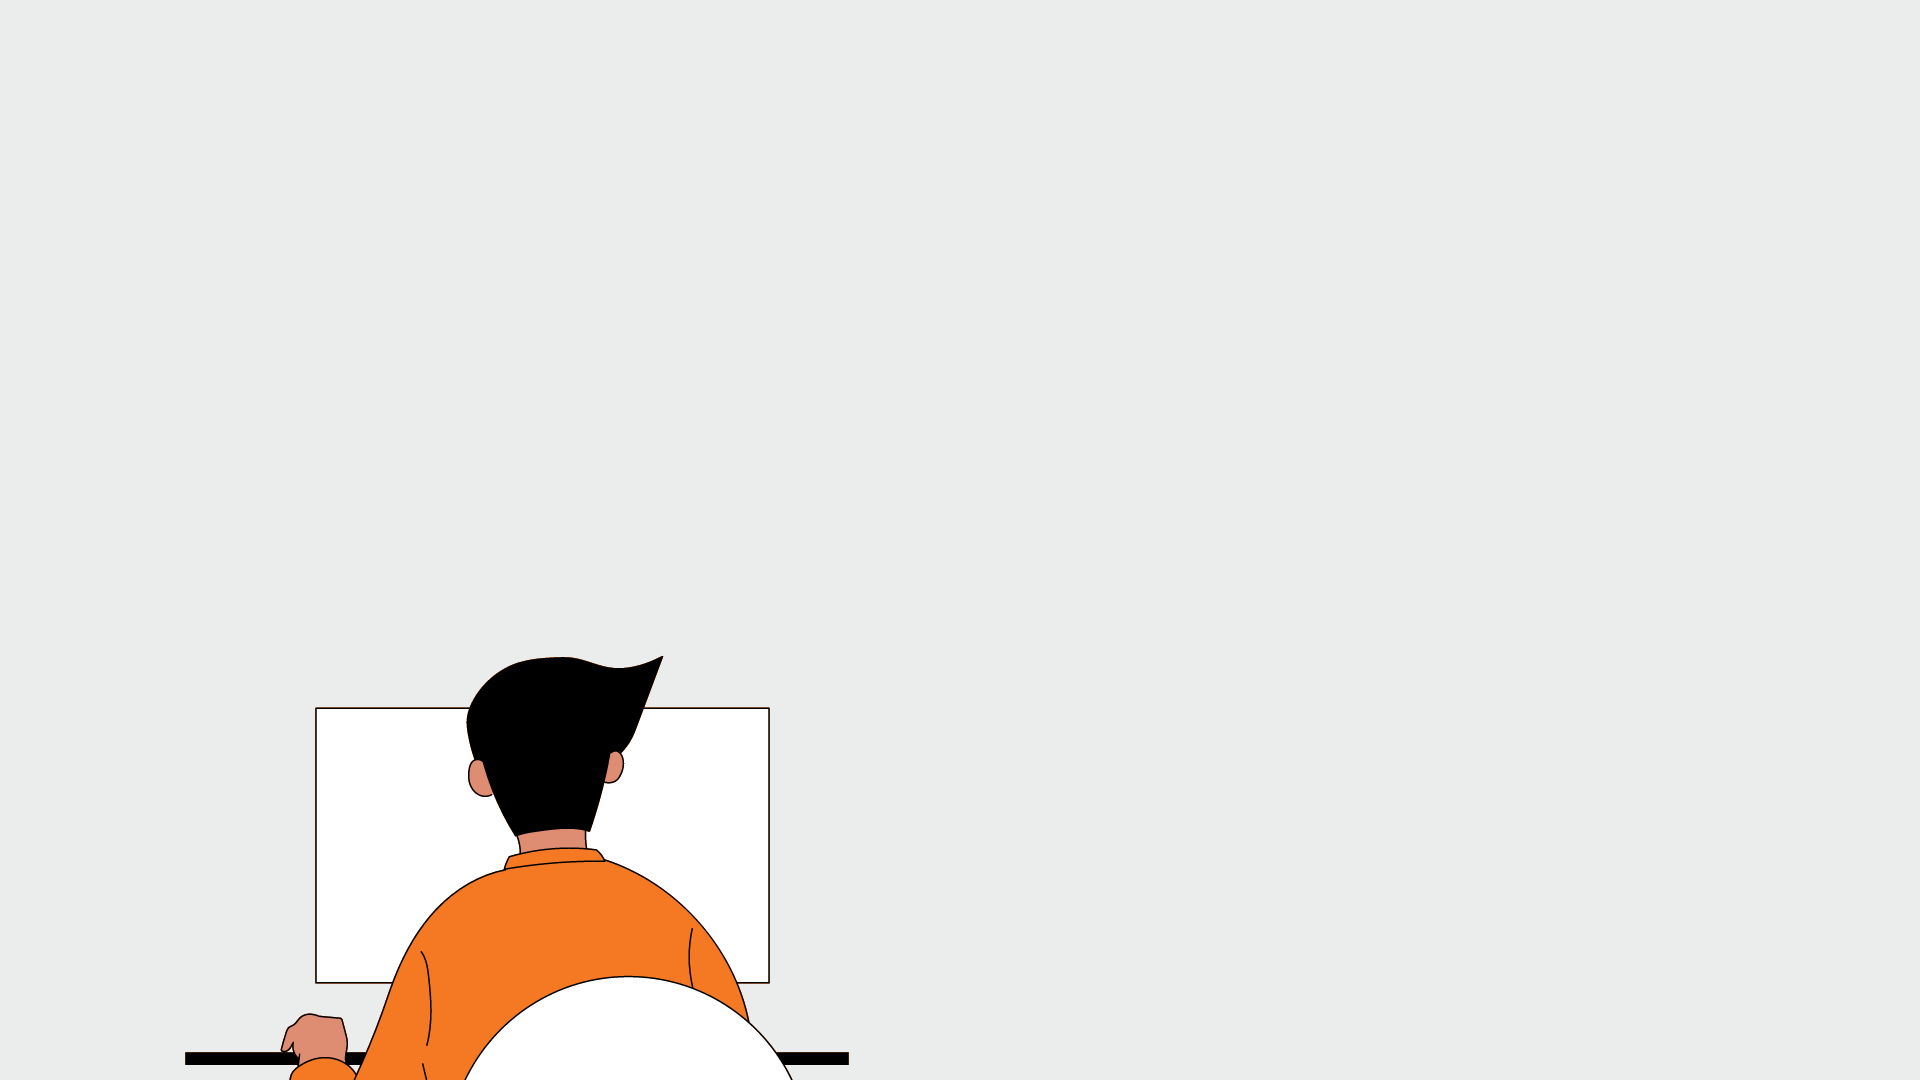
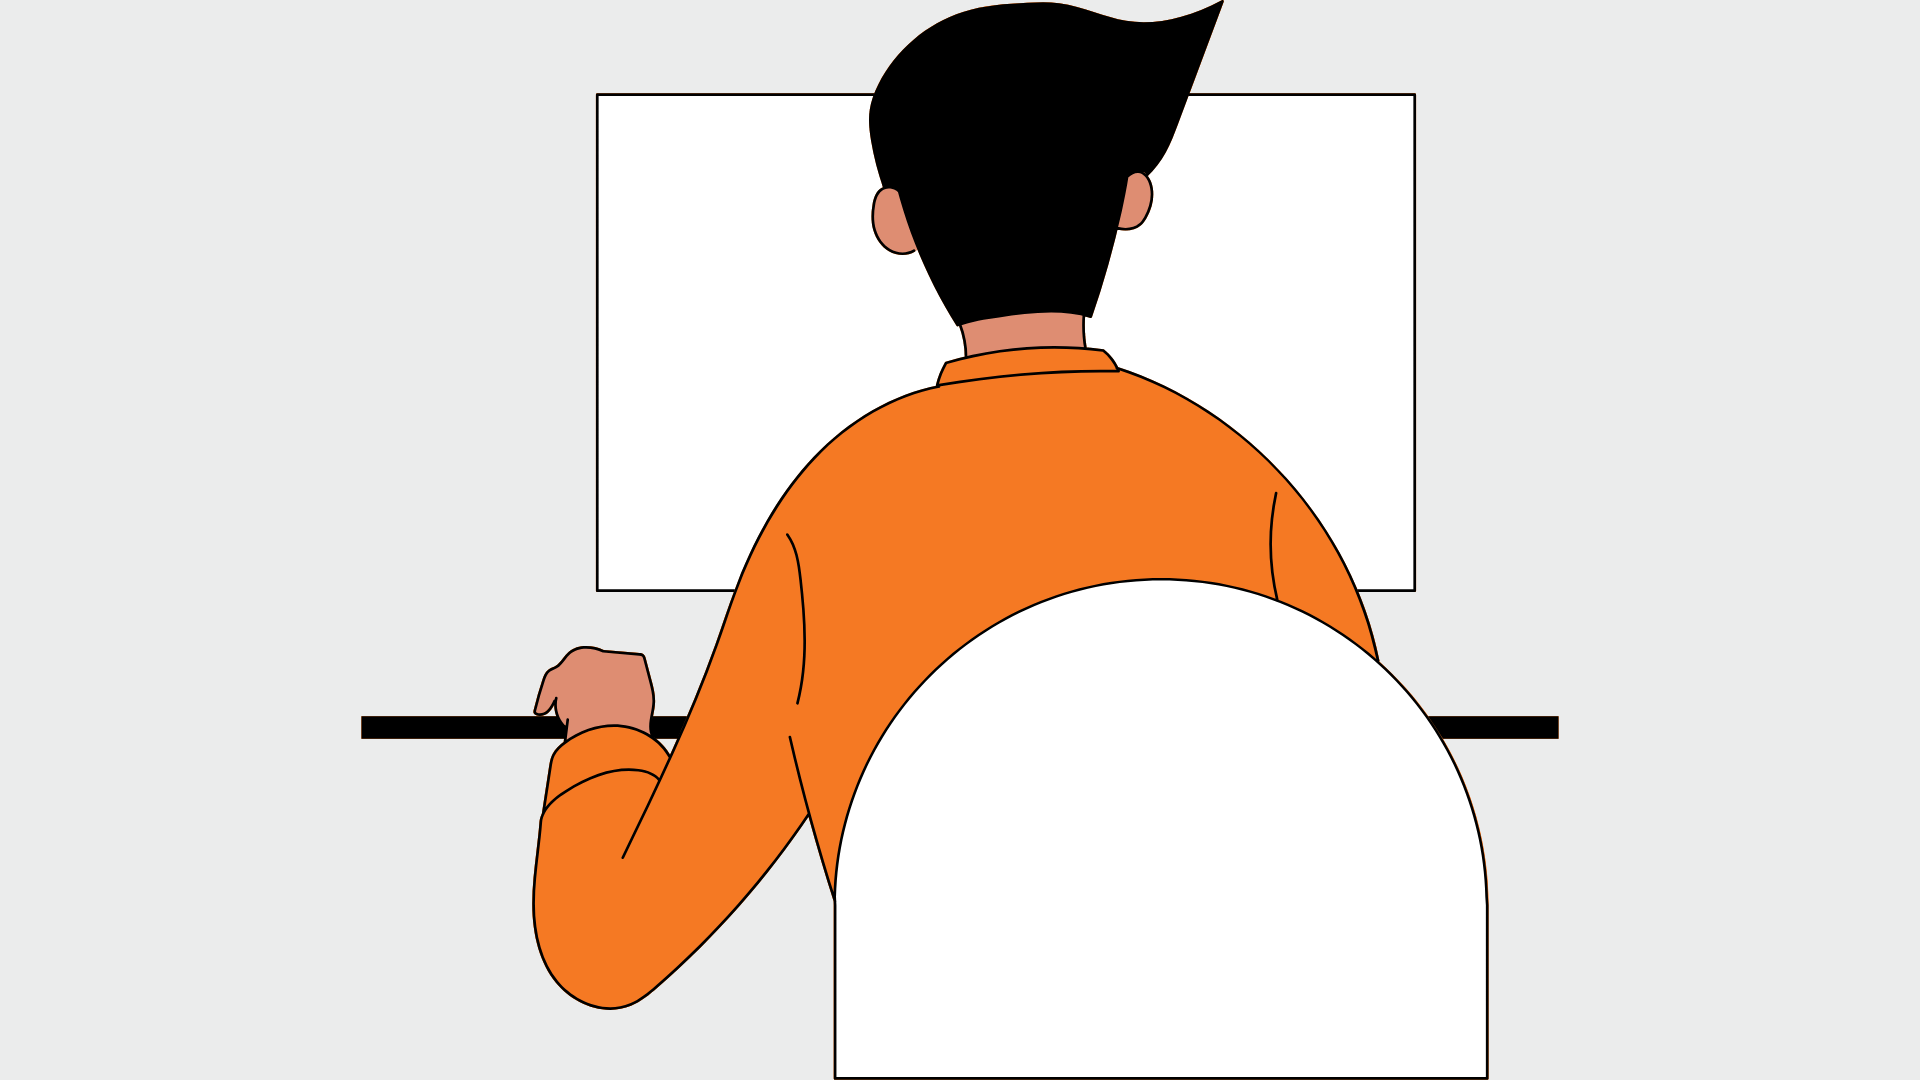
Made resume section

Changed region(s): [[0.0938, 0.0, 0.75, 1.0], [0.4062, 0.9472, 0.7812, 1.0], [0.7188, 0.6417, 0.8125, 0.7028]]

diff --git a/index.html b/index.html
@@ -48,18 +48,17 @@
             </div>
           </div>
 
-          <div class="px-4 pt-5 my-5 text-center border-bottom">
-            <h1 class="display-4 fw-bold text-body-emphasis">Centered screenshot</h1>
+          <div class="resume px-4 pt-5 my-5 text-center border-bottom" id="Resume">
+            <h1 class="display-4 fw-bold text-body-emphasis">Hello!</h1>
             <div class="col-lg-6 mx-auto">
-              <p class="lead mb-4">Quickly design and customize responsive mobile-first sites with Bootstrap, the world’s most popular front-end open source toolkit, featuring Sass variables and mixins, responsive grid system, extensive prebuilt components, and powerful JavaScript plugins.</p>
+              <p class="lead mb-4">I am a hardworking individual who believes he can attain or finish any work when I point my mind and dedication to it. I am willing to learn many kinds of things, as I find learning to be quite fascinating. I can manage time well in finishing tasks. I believe that the skills I have obtained will help me do anything and everything for clients.</p>
               <div class="d-grid gap-2 d-sm-flex justify-content-sm-center mb-5">
-                <button type="button" class="btn btn-primary btn-lg px-4 me-sm-3">Primary button</button>
-                <button type="button" class="btn btn-outline-secondary btn-lg px-4">Secondary</button>
+                <a role="button" class="btn btn-outline-secondary btn-lg px-4" href="https://emilsonylarde.github.io/Portfolio_EmilResume/">Resume</a>
               </div>
             </div>
             <div class="overflow-hidden" style="max-height: 30vh;">
               <div class="container px-5">
-                <img src="bootstrap-docs.png" class="img-fluid border rounded-3 shadow-lg mb-4" alt="Example image" width="700" height="500" loading="lazy">
+                <img src="assets/images/computer-guy.png" class="img-fluid border rounded-3 shadow-lg mb-4" alt="Example image" width="700" height="500" loading="lazy">
               </div>
             </div>
           </div>
